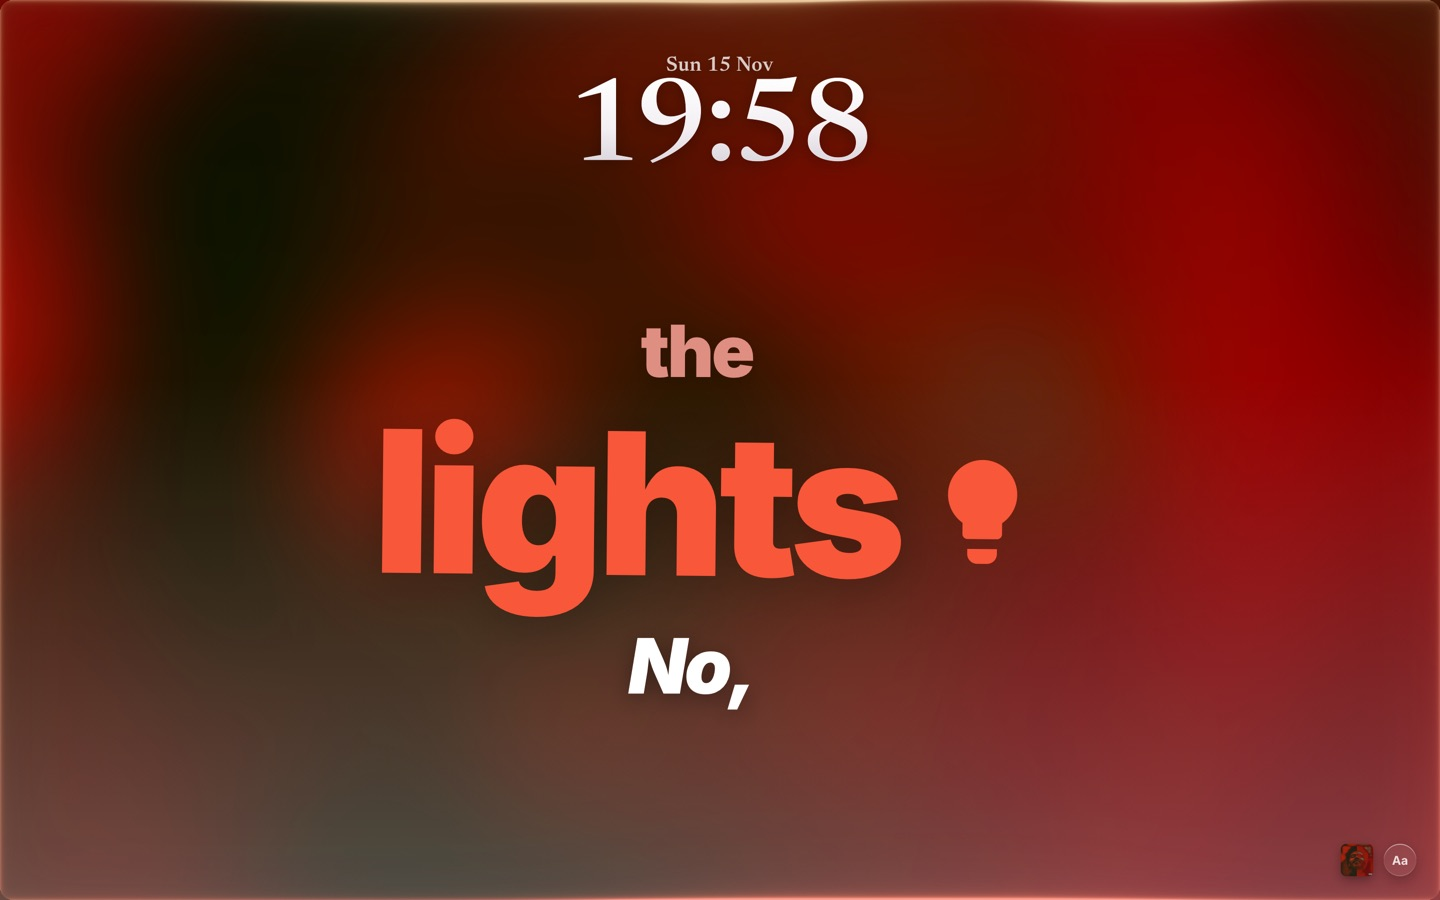
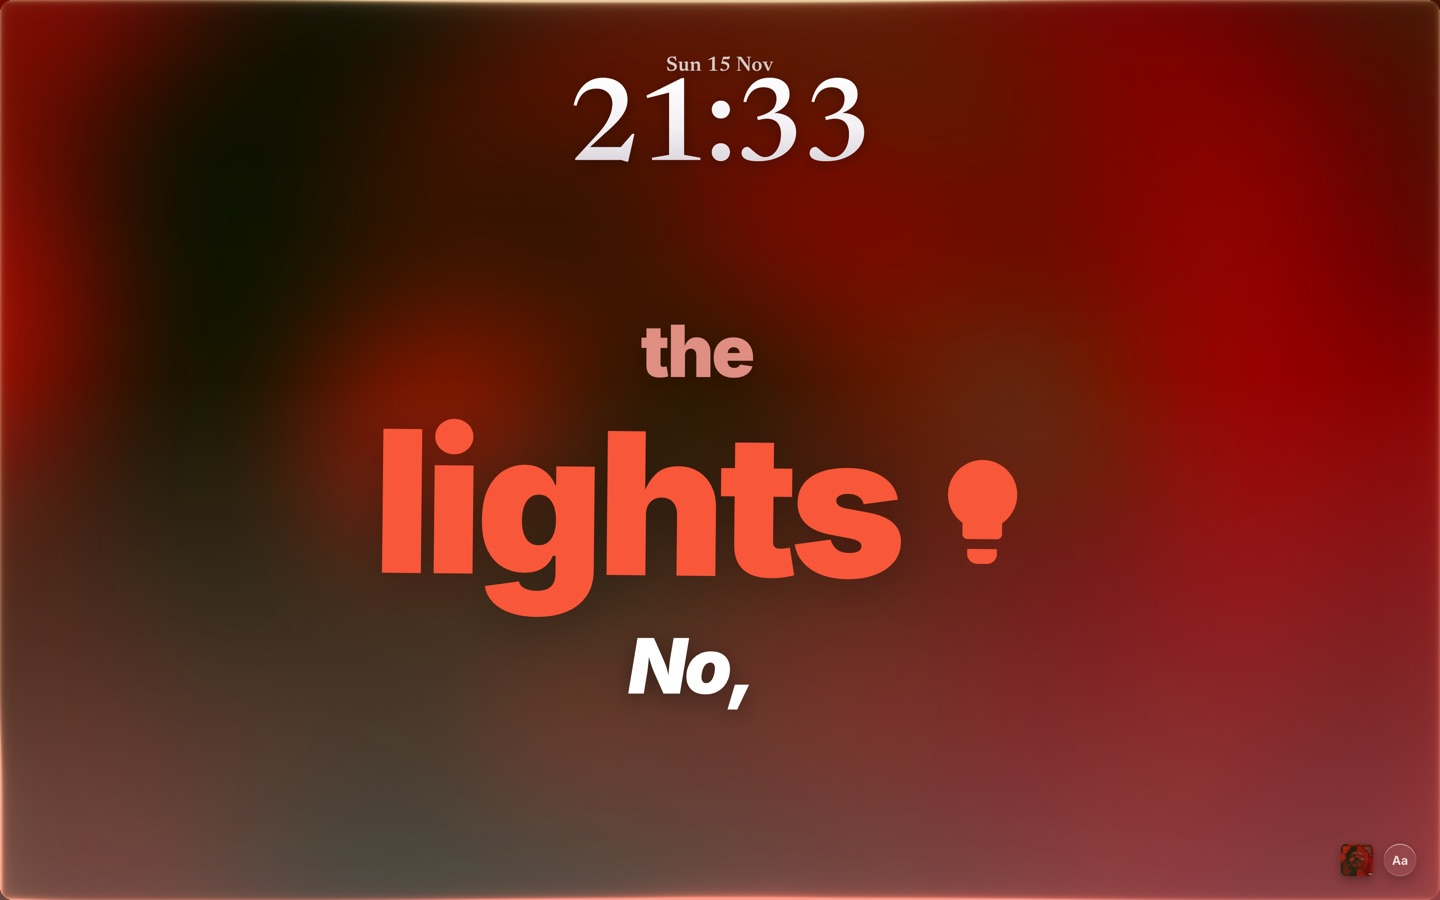
Lock screen clock styles: System, Serif, Thin, Monospace
Tray → Desktop wallpaper → Lock screen clock. Serif matches the
full-screen clock. README: the option and a picture of the four styles;
screenshots regenerated (the island shots now show the ‹ › arrows).

diff --git a/src/full.css b/src/full.css
@@ -566,6 +566,23 @@ body.lock #clock .time {
   background: none; color: rgba(226, 223, 240, .8); -webkit-text-stroke: 0; filter: none;
   font-variation-settings: normal;
 }
+/* other clock styles (tray → Desktop wallpaper → Lock screen clock) */
+body.lock.clock-serif #clock { font-family: "Clock Serif", "Georgia", serif; }
+body.lock.clock-serif #clock .date { font-size: 2.3vh; font-weight: 600; letter-spacing: .01em; color: rgba(255,255,255,.8); font-variation-settings: "opsz" 24; }
+body.lock.clock-serif #clock .time {
+  font-size: 13vh; line-height: 1.02; font-weight: 500; letter-spacing: -.015em;
+  font-variation-settings: "opsz" 72; font-variant-numeric: lining-nums;
+  background: linear-gradient(180deg, #ffffff 0%, #f3eff3 45%, #c9c3cc 100%);
+  -webkit-background-clip: text; background-clip: text; color: transparent;
+  filter: drop-shadow(0 .35vh .9vh rgba(0,0,0,.28));
+  -webkit-text-stroke: .06vh rgba(255,255,255,.35);
+}
+body.lock.clock-thin #clock { font-family: -apple-system, BlinkMacSystemFont, "Helvetica Neue", sans-serif; }
+body.lock.clock-thin #clock .date { font-weight: 500; letter-spacing: .04em; }
+body.lock.clock-thin #clock .time { font-size: 15vh; font-weight: 100; letter-spacing: -.01em; color: rgba(240, 238, 248, .9); }
+body.lock.clock-mono #clock { font-family: ui-monospace, "SF Mono", Menlo, monospace; }
+body.lock.clock-mono #clock .date { font-size: 2.3vh; font-weight: 500; letter-spacing: .08em; text-transform: uppercase; }
+body.lock.clock-mono #clock .time { font-size: 12vh; font-weight: 600; letter-spacing: -.04em; color: rgba(232, 230, 244, .86); }
 body.lock #cover { top: 28vh; }
 /* the player card is dark glass tinted with the cover, readable on any lock screen */
 body.lock .card {

diff --git a/src/full.js b/src/full.js
@@ -45,6 +45,7 @@ function demoBridge(q) {
     handlers['full:open']?.({});
     if (q.get('style')) setStyle(q.get('style'));
     if (q.get('glitter')) applySettings({ glitter: q.get('glitter') });
+    if (q.get('clock')) applySettings({ lockClock: q.get('clock') });
     if (q.get('bg') || q.get('cover')) applySettings({ lyricStyle: q.get('style') || 'words', lyricBg: q.get('bg') || 'simple', lyricCover: q.get('cover') === '1' });
     if (q.get('mode') === 'lyrics') setTimeout(() => setMode('lyrics'), 1300);
   }, 100);
@@ -1195,7 +1196,11 @@ function applySettings(s) {
   if (look !== S.look) { S.look = look; setStyle(S.settings.lyricStyle || S.style); }
   if (window.Glitter) Glitter.setMode(S.settings.glitter || 'off');
   document.body.classList.toggle('no-glow', !S.settings.glow);
+  // lock screen clock style (tray → Desktop wallpaper → Lock screen clock)
+  const clock = CLOCKS.includes(S.settings.lockClock) ? S.settings.lockClock : 'system';
+  for (const k of CLOCKS) document.body.classList.toggle(`clock-${k}`, k === clock);
 }
+const CLOCKS = ['system', 'serif', 'thin', 'mono'];
 invoke('get_settings').then(applySettings).catch(() => {});
 listen('settings', (e) => applySettings(e.payload));
 

diff --git a/scripts/screenshots/grid.swift b/scripts/screenshots/grid.swift
@@ -1,0 +1,19 @@
+// Tiles same-size images into one JPEG, with a thin dark gap between them.
+// usage: grid <out.jpg> <columns> <image>...
+import AppKit
+let a = CommandLine.arguments
+let out = a[1], cols = Int(a[2])!
+let imgs = a[3...].map { NSImage(contentsOfFile: $0)! }
+let w = imgs[0].size.width, h = imgs[0].size.height, gap: CGFloat = 8
+let rows = (imgs.count + cols - 1) / cols
+let size = NSSize(width: w * CGFloat(cols) + gap * CGFloat(cols - 1), height: h * CGFloat(rows) + gap * CGFloat(rows - 1))
+let canvas = NSImage(size: size)
+canvas.lockFocus()
+NSColor(white: 0.08, alpha: 1).setFill(); NSRect(origin: .zero, size: size).fill()
+for (i, im) in imgs.enumerated() {
+    let c = i % cols, r = i / cols
+    im.draw(in: NSRect(x: CGFloat(c) * (w + gap), y: CGFloat(rows - 1 - r) * (h + gap), width: w, height: h))
+}
+canvas.unlockFocus()
+let rep = NSBitmapImageRep(data: canvas.tiffRepresentation!)!
+try! rep.representation(using: .jpeg, properties: [.compressionFactor: 0.8])!.write(to: URL(fileURLWithPath: out))

diff --git a/src-tauri/src/main.rs b/src-tauri/src/main.rs
@@ -58,6 +58,14 @@ const LYRIC_BG_CHOICES: [(&str, &str); 4] = [
     ("foggy", "Foggy"),
 ];
 
+/// The lock screen's clock (when NeedleX shows the cover or the lyrics there).
+const LOCK_CLOCK_CHOICES: [(&str, &str); 4] = [
+    ("system", "System (rounded)"),
+    ("serif", "Serif"),
+    ("thin", "Thin"),
+    ("mono", "Monospace"),
+];
+
 /// The looks that sit on your own wallpaper as an object you can drag around.
 pub fn wall_is_object(look: &str) -> bool {
     matches!(look, "turntable" | "sleeve" | "aura")
@@ -107,6 +115,8 @@ pub struct Settings {
     pub lyric_cover: bool,
     /// The now-playing view on the lock screen too (with the clock).
     pub lock_screen: bool,
+    /// Lock screen clock style: "system" | "serif" | "thin" | "mono".
+    pub lock_clock: String,
 }
 
 impl Default for Settings {
@@ -127,6 +137,7 @@ impl Default for Settings {
             lyric_bg: "simple".into(),
             lyric_cover: false,
             lock_screen: true,
+            lock_clock: "system".into(),
         }
     }
 }
@@ -519,7 +530,14 @@ fn build_menu(app: &AppHandle) -> tauri::Result<Menu<Wry>> {
         }
         items.push(it);
     }
-    let wall_menu = wall_menu.separator().item(&lockscreen).build()?;
+    let mut clock_menu = SubmenuBuilder::new(app, "Lock screen clock");
+    for (id, label) in LOCK_CLOCK_CHOICES {
+        let it = check(&format!("lockclock_{id}"), label, s.lock_clock == id)?;
+        clock_menu = clock_menu.item(&it);
+        items.push(it);
+    }
+    let clock_menu = clock_menu.build()?;
+    let wall_menu = wall_menu.separator().item(&lockscreen).item(&clock_menu).build()?;
 
     // lyrics effect (desktop, lock screen, full screen)
     let mut lyr_menu = SubmenuBuilder::new(app, "Lyrics effect");
@@ -659,6 +677,16 @@ fn on_menu(app: &AppHandle, id: &str) {
         }
         other if other.starts_with("lyr_") => {
             apply_lyric_style(app, other["lyr_".len()..].to_string());
+        }
+        other if other.starts_with("lockclock_") => {
+            let style = other["lockclock_".len()..].to_string();
+            update_setting(app, |s| s.lock_clock = style.clone());
+            let items = state.tray_items.lock().unwrap();
+            for (id, _) in LOCK_CLOCK_CHOICES {
+                if let Some(i) = items.get(&format!("lockclock_{id}")) {
+                    let _ = i.set_checked(id == style);
+                }
+            }
         }
         other if other.starts_with("lyrbg_") => {
             let bg = other["lyrbg_".len()..].to_string();

diff --git a/README.md b/README.md
@@ -141,6 +141,12 @@ NeedleX fades away.
   </tr>
 </table>
 
+**Clock style** (tray → *Desktop wallpaper* → *Lock screen clock*): *System* (rounded, like macOS),
+*Serif* (like the full-screen clock), *Thin* or *Monospace*. NeedleX's clock shows with the cover and
+the lyrics. With the record, your own lock screen and its clock show through.
+
+<img src="docs/images/lock-clocks.jpg" width="720" alt="The four lock screen clock styles: System, Serif, Thin and Monospace" />
+
 ### Full screen
 
 Click the cover in the open island, or let NeedleX open by itself after a few idle minutes (tray →
@@ -228,7 +234,7 @@ Everything is in the tray menu:
 | Full screen when idle | Off / 1 / 3 / 5 / 10 / 15 minutes |
 | Show notch on | Choose which display shows the island |
 | Glitter (full screen) | Off / White / Multicolour / Album colours |
-| Desktop wallpaper | Off / Lyrics / Turntable / Record sleeve / Cover with aura, and *Also on the lock screen* |
+| Desktop wallpaper | Off / Lyrics / Turntable / Record sleeve / Cover with aura, *Also on the lock screen* and *Lock screen clock* (System / Serif / Thin / Monospace) |
 | Lyrics effect | Pick the effect, its *Background* and *Show album cover* |
 | Open full screen · Re-center notch · Launch at login · Quit | |
 

diff --git a/CHANGELOG.md b/CHANGELOG.md
@@ -2,6 +2,12 @@
 
 Notable changes to NeedleX for macOS. Dates are in YYYY-MM-DD format.
 
+## Unreleased
+
+- **Lock screen clock styles:** System (rounded), Serif, Thin or Monospace (tray → Desktop
+  wallpaper → Lock screen clock).
+- **‹ › arrows** on the sides of the open island to step between Player, Weather and Calendar.
+
 ## 0.1.0 – 2026-11-15
 
 The first macOS release: one download for Apple silicon and Intel Macs (macOS 13+).
